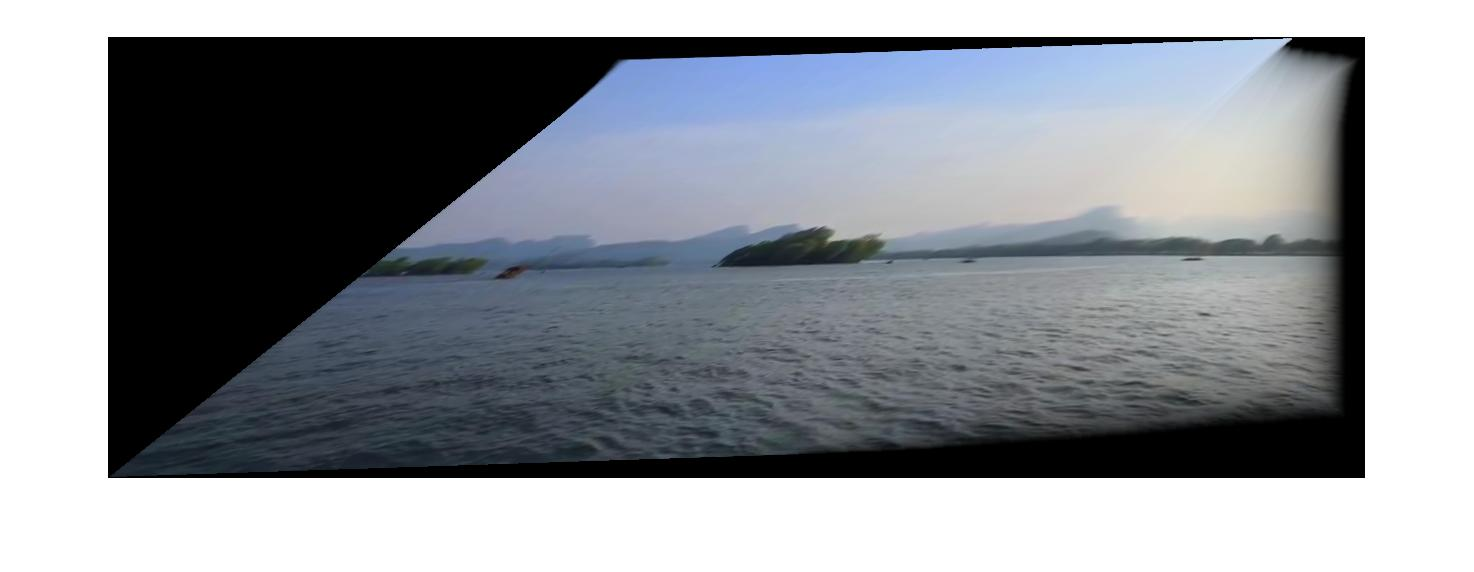
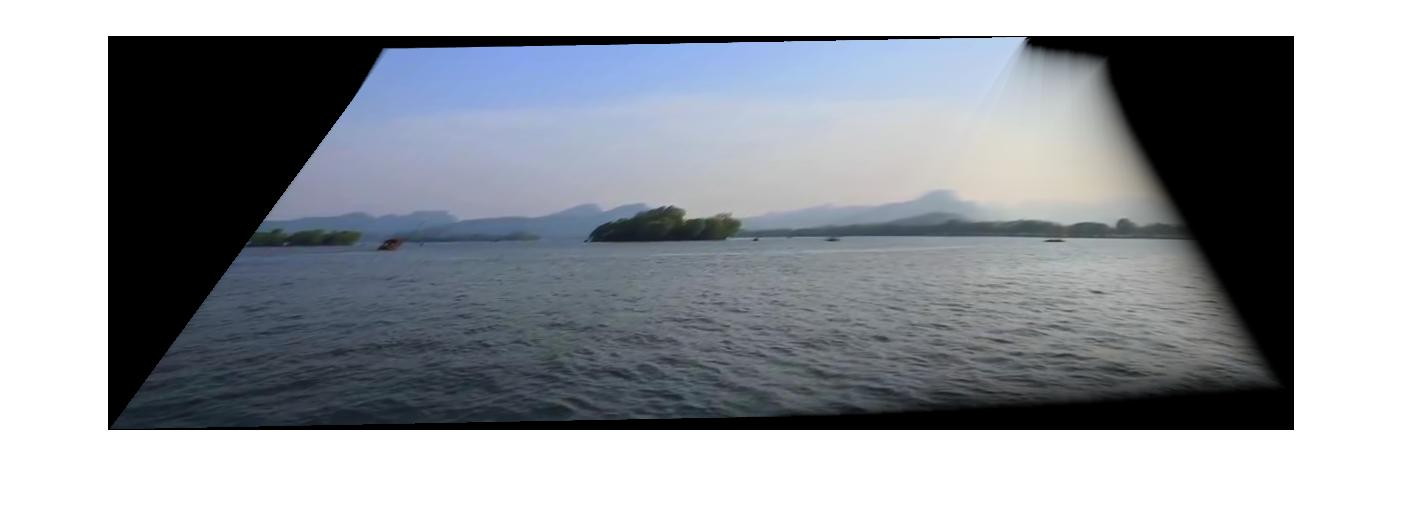
changes

diff --git a/blend.m b/blend.m
@@ -1,0 +1,77 @@
+function [ im_blended ] = blend( im_input1, im_input2 )
+%BLEND Blends two images together via feathering
+% Pre-conditions:
+%     `im_input1` and `im_input2` are both RGB images of the same size
+%     and data type
+% Post-conditions:
+%     `im_blended` has the same size and data type as the input images
+    
+    assert(all(size(im_input1) == size(im_input2)));
+    assert(size(im_input1, 3) == 3);
+
+    im_blended = zeros(size(im_input1), 'like', im_input1);
+
+    %------------- YOUR CODE STARTS HERE -----------------
+    
+    %calculate alpha first
+    a1 = rgb2alpha(im_input1, 0.001);
+    a2 = rgb2alpha(im_input2, 0.001);
+    
+    % do the same to R,G,B channels, (a1I1+a2I2)/(a1+a2)
+    R1 = im_input1(:,:,1);
+    R2 = im_input2(:,:,1);
+    G1 = im_input1(:,:,2);
+    G2 = im_input2(:,:,2);
+    B1 = im_input1(:,:,3);
+    B2 = im_input2(:,:,3);
+    
+    Rout = ((a1 .* R1 ) + (a2 .* R2))./(a1+a2);
+    
+    Gout = ((a1 .* G1 ) + (a2 .* G2))./(a1+a2);
+    
+    Bout = ((a1 .* B1 ) + (a2 .* B2))./(a1+a2);
+    
+    %merge to final rgb
+    im_blended = cat(3,Rout,Gout,Bout);
+    %------------- YOUR CODE ENDS HERE -----------------
+
+end
+
+function im_alpha = rgb2alpha(im_input, epsilon)
+% Returns the alpha channel of an RGB image.
+% Pre-conditions:
+%     im_input is an RGB image.
+% Post-conditions:
+%     im_alpha has the same size as im_input. Its intensity is between
+%     epsilon and 1, inclusive.
+
+    if nargin < 2
+        epsilon = 0.001;
+    end
+    
+    %------------- YOUR CODE STARTS HERE -----------------
+    
+    [row, col,~] = size(im_input);
+    im_binary = ones(row, col);
+    for r = 1: row
+        for c = 1: col
+            if im_input(r,c,1) ~= 0 || im_input(r,c,2) ~= 0 || im_input(r,c,2) ~= 0
+                im_binary(r,c) = 0;
+            end
+        end
+    end
+    
+    
+    [distance, ~] = bwdist(im_binary, 'euclidean');
+    min1 = min(distance(:));
+    max1 = max(distance(:));
+    min2 = epsilon;
+    max2 = 1;
+    % x in range(min1,max1),y in range(min2,max2), 
+    % y = (x-min1)*(max2-min2)/(max1-min1)+min2, here y is alpha, x is
+    % distance
+    im_alpha = (distance - min1) .* (max2 - min2) ./ (max1-min2) + min2;
+    
+    %------------- YOUR CODE ENDS HERE -----------------
+
+end

diff --git a/extentOfScene.m b/extentOfScene.m
@@ -1,7 +1,7 @@
 function [extent, ref] = extentOfScene(S)
 % This function returns the extent of the scene given a video segment S
     [index, H_map] = refFrameDetect(S);
-    
+    ref = index;
     % Compute the size of the output panorama image
     min_row = 1;
     min_col = 1;
@@ -10,7 +10,7 @@ function [extent, ref] = extentOfScene(S)
 
     % for each input image
     for i=1:length(H_map)
-        cur_image = imread(fullfile(imagepath, imagelist(i).name));
+        cur_image = S{i};
         [rows,cols,~] = size(cur_image);
 
         % create a matrix with the coordinates of the four corners of the
@@ -61,7 +61,7 @@ function [extent, ref] = extentOfScene(S)
         % Note:  Some values will return as NaN ("not a number") because they
         % map to points outside the domain of the input image
 
-        cur_image = im2double(imread(fullfile(imagepath, imagelist(i).name)));
+        cur_image = im2double(S{i});
 
         % Bilinear interpolate color values
         curr_warped_image = zeros(panorama_height, panorama_width, 3);
@@ -104,5 +104,6 @@ function [extent, ref] = extentOfScene(S)
         %panorama_image = panorama_image + blended_image;
 
     end
+    extent = panorama_image;
 end
 

diff --git a/main.m b/main.m
@@ -1,6 +1,7 @@
 %% This is the main function for assessing given video segments
 % Read given video segments
 video = VideoReader('./testVideoSegs/testSeg1.avi');
+%video = VideoReader('./testVideoSegs/testSeg2.avi');
 % Convert video to cell array
 source = {};
 count = 1;
@@ -11,16 +12,18 @@ while hasFrame(video)
 end
 
 % Find the extent of scene
-[extent, refereneFrame] = extentOfScene(source);
+[extent, referenceFrame] = extentOfScene(source);
+referenceFrame
+imshow(extent)
 % Start from the referene frame as initial segment, append S with its
 % nearest neighbor
-threshold = 0;
-alpha = 0;
-leftFrame = {};
+%threshold = 0;
+%alpha = 0;
+%leftFrame = {};
 
-while(threshold < alpha)
+%while(threshold < alpha)
     % First append two adjacent frames of initial segment
     
     % Calculate the visual distortion value
-    visualError = visualQuality()
-end
+%    visualError = visualQuality()
+%end

diff --git a/refFrameDetect.m b/refFrameDetect.m
@@ -1,4 +1,4 @@
-function [referenceFrame,H_map_temp] = refFrameDetect(S)
+function [referenceFrame,H_map_final] = refFrameDetect(S)
 % This function will return a reference from a given video segment
     
     frameDistances = cell(1, length(S));
@@ -11,14 +11,12 @@ function [referenceFrame,H_map_temp] = refFrameDetect(S)
         % other frame fi to f1. And calculate all the frames in the segment
         % choose the one whose panorama is smallest
         H_map = calMapping(H_left, H_right, i);
-        if i == 3
-            H_map_temp = H_map;
-        end
         frameDistances{i} = centerDistance(H_map, S);  
     end
     % Find the smallest distance and return the index accordingly.
     [minValue, index] = min(cell2mat(frameDistances));
     referenceFrame = index;
+    H_map_final = calMapping(H_left, H_right, referenceFrame);
 end
 
 function [H_list_r2l, H_list_l2r] = generateH_lists(S)

diff --git a/testVideoCreate.m b/testVideoCreate.m
@@ -1,17 +1,17 @@
 %% Create video object for test videos
 % Extract all the frame from test video
-video = VideoReader('testVideo1.mp4');
+video = VideoReader('./testVideoSegs/longSeg.mp4');
 count = 1;
-filePath = './testVideo1';
+filePath = './longSeg';
 if 7 ~= exist(filePath, 'dir')
     mkdir(filePath); 
 end
 type = '.jpg';
 while hasFrame(video)
     frame = readFrame(video);
+    fileName = strcat(filePath, '/', int2str(int64(count)), type);
     imwrite(frame, fileName);
     count = count + 1;
-    fileName = strcat(filePath, '/', int2str(int64(count)), type);
 end
 %% Convert image sequence into video
 workingDir = 'testSeg1';
